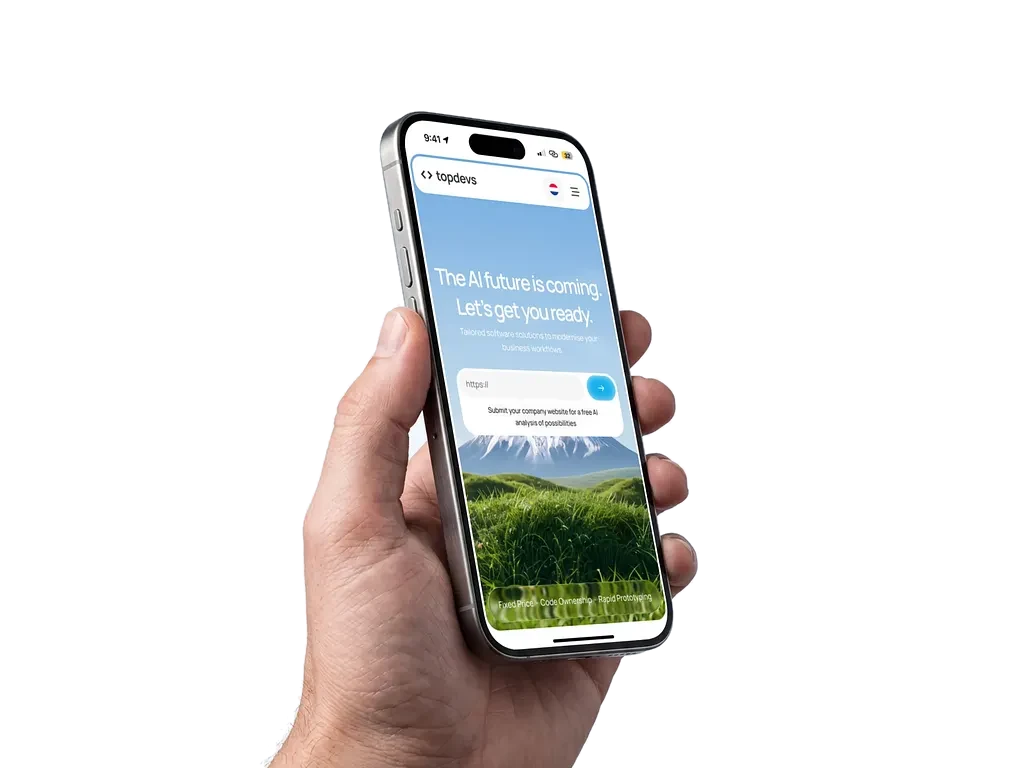
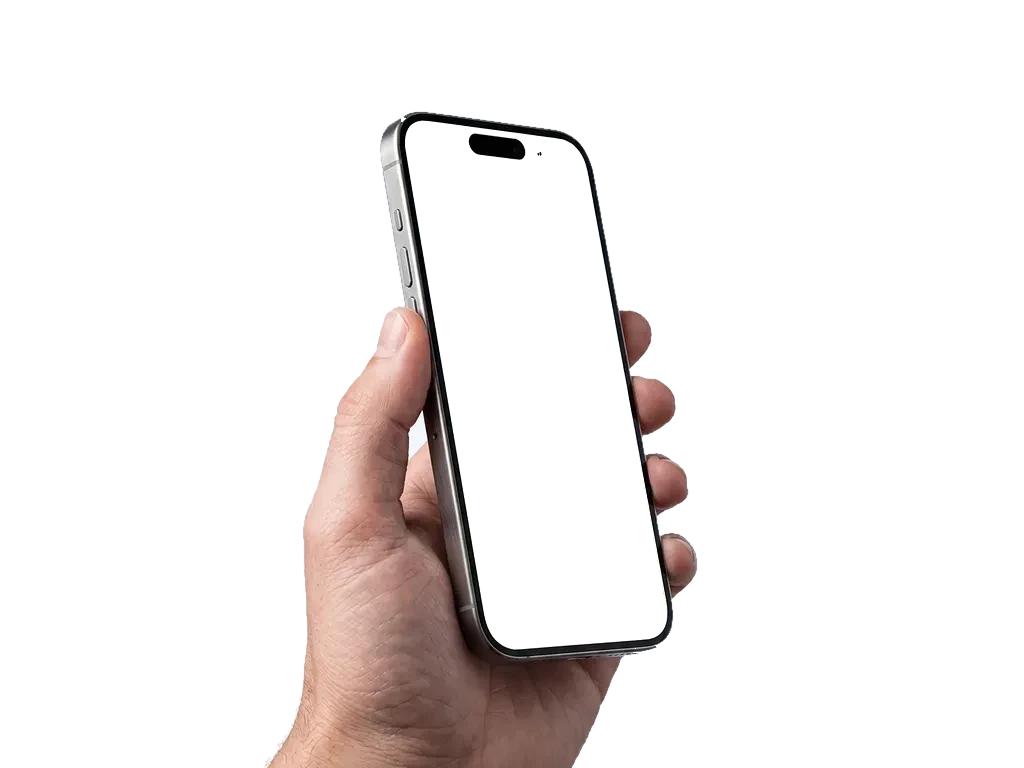
fix(hero): the screen sits inside the phone, not pasted on the photo
The live screen was drawn on top of the photo with approximate corners, so
its edges ran over the bezel in places and fell short in others, with its
own rounded corners and Dynamic Island that did not match the phone's.

- The screen glass is now cut out of the photo, and the live screen renders
  underneath it, clipped by a 1 KB mask of the glass shape grown 3 px. The
  phone's own bezel, rounded corners and Dynamic Island frame the content,
  the way a real mockup is composited.
- Corners are measured from the photo: lines fitted to the inner edge of
  the bezel on all four sides (ignoring the status-bar text and the side
  rim), intersected, pushed 4 px outward. The duplicate island is gone.
- The hole and the backdrop matte are pulled in by 1 px, so the bezel's
  soft edge stays solid and no light halo rings the fingers.
- On phone screens the two floating cards tuck inside, instead of the
  privacy badge running off the right edge.

Claude-Session: https://claude.ai/code/session_01GhrKGBFhCR7VbzNWPzgHkV

Changed region(s): [[0.4062, 0.1562, 0.6562, 0.8438]]

diff --git a/src/components/hero-device/hero-device.tsx b/src/components/hero-device/hero-device.tsx
@@ -36,7 +36,11 @@ import type { Dict } from "@/lib/i18n/index";
 
 type Copy = Dict["landing"]["heroDevice"];
 
+// The photo has its backdrop and its screen glass cut out; the live screen
+// sits underneath, framed by the phone's real bezel and Dynamic Island.
 const HAND = "/landing/hand-iphone.webp";
+// The glass's shape in the photo, grown 3 px so it hides under the bezel.
+const SCREEN_MASK = "url(/landing/hand-iphone-screen.png)";
 const GP = "/gallery-preview/";
 const GUEST = ["/explainer/assets/phone-cake.webp", "/explainer/assets/phone-nana.webp", GP + "p7.jpg"];
 const CAMERA_BG = GP + "p5.jpg";
@@ -381,15 +385,22 @@ export function HeroDevice({ copy, qrSvg }: { copy: Copy; qrSvg: string }) {
               }}
             >
               <div style={{ ...abs, left: 0, top: 0, width: 1024, height: 768, transformOrigin: "0 0", transform: `scale(${s}) translate(${-CROP.x}px, ${-CROP.y}px)` }}>
-                <img
-                  src={HAND}
-                  alt=""
-                  fetchPriority="high"
-                  decoding="async"
-                  style={{ ...abs, left: 0, top: 0, width: 1024, height: 768, display: "block", filter: "brightness(1.04) contrast(1.03)" }}
-                />
-
-                {/* ─── The live screen, warped onto the phone ─── */}
+                {/* ─── The live screen, warped onto the phone, under the photo ─── */}
+                <div
+                  style={{
+                    ...abs,
+                    left: 0,
+                    top: 0,
+                    width: 1024,
+                    height: 768,
+                    WebkitMaskImage: SCREEN_MASK,
+                    maskImage: SCREEN_MASK,
+                    WebkitMaskSize: "1024px 768px",
+                    maskSize: "1024px 768px",
+                    WebkitMaskRepeat: "no-repeat",
+                    maskRepeat: "no-repeat",
+                  }}
+                >
                 <div
                   style={{
                     ...abs,
@@ -399,7 +410,6 @@ export function HeroDevice({ copy, qrSvg }: { copy: Copy; qrSvg: string }) {
                     height: SCREEN.h,
                     transformOrigin: "0 0",
                     transform: SCREEN_MATRIX,
-                    borderRadius: 58,
                     overflow: "hidden",
                     background: "#0b0b0d",
                     isolation: "isolate",
@@ -1086,19 +1096,6 @@ export function HeroDevice({ copy, qrSvg }: { copy: Copy; qrSvg: string }) {
                     <span style={{ ...abs, left: 44, top: 18, fontSize: 17, fontWeight: 600 }}>9:41</span>
                     <StatusIcons battery="rgba(23,32,51,.5)" />
                   </div>
-                  <div style={{ ...abs, left: 133, top: 11, width: 127, height: 37, borderRadius: 20, background: "#000", boxShadow: "0 0 0 1px rgba(255,255,255,.04)" }}>
-                    <div
-                      style={{
-                        ...abs,
-                        right: 12,
-                        top: 11,
-                        width: 15,
-                        height: 15,
-                        borderRadius: "50%",
-                        background: "radial-gradient(circle at 35% 35%, #1d2433, #050608 60%)",
-                      }}
-                    />
-                  </div>
                   <div
                     style={{
                       ...abs,
@@ -1115,7 +1112,6 @@ export function HeroDevice({ copy, qrSvg }: { copy: Copy; qrSvg: string }) {
                   <div
                     style={{
                       ...fill,
-                      borderRadius: 58,
                       pointerEvents: "none",
                       background:
                         "linear-gradient(118deg, rgba(255,255,255,.20) 0%, rgba(255,255,255,.06) 26%, rgba(255,255,255,0) 42%, rgba(255,255,255,0) 78%, rgba(255,255,255,.05) 100%)",
@@ -1123,12 +1119,23 @@ export function HeroDevice({ copy, qrSvg }: { copy: Copy; qrSvg: string }) {
                     }}
                   />
                 </div>
+                </div>
+
+                {/* The phone and hand, on top: its bezel frames the screen. */}
+                <img
+                  src={HAND}
+                  alt=""
+                  fetchPriority="high"
+                  decoding="async"
+                  style={{ ...abs, left: 0, top: 0, width: 1024, height: 768, display: "block", filter: "brightness(1.04) contrast(1.03)" }}
+                />
+
               </div>
             </div>
           </div>
 
           {/* Floating cards */}
-          <div className="hd-float" style={{ ...abs, right: "-7%", top: "1%", zIndex: 3 }}>
+          <div className="hd-float hd-badge" style={{ ...abs, zIndex: 3 }}>
             <div
               style={{
                 display: "flex",
@@ -1162,7 +1169,7 @@ export function HeroDevice({ copy, qrSvg }: { copy: Copy; qrSvg: string }) {
             </div>
           </div>
 
-          <div className="hd-float hd-float-late" style={{ ...abs, left: "-7%", top: "52%", width: "clamp(86px, 26%, 116px)", zIndex: 3 }}>
+          <div className="hd-float hd-float-late hd-qr" style={{ ...abs, top: "52%", width: "clamp(86px, 26%, 116px)", zIndex: 3 }}>
             <div
               style={{
                 display: "flex",

diff --git a/src/lib/hero-device/homography.ts b/src/lib/hero-device/homography.ts
@@ -7,12 +7,17 @@ export type Point = [number, number];
 /** The live screen, in CSS px (an iPhone 15 Pro viewport). */
 export const SCREEN = { w: 393, h: 852 } as const;
 
-/** The screen's corners in the 1024×768 photo: top-left, top-right, bottom-right, bottom-left. */
+/**
+ * The screen's corners in the 1024×768 photo: top-left, top-right,
+ * bottom-right, bottom-left. Measured from the photo — lines fitted to the
+ * inner edge of the bezel on all four sides, intersected, then pushed 4 px
+ * outwards so the live screen tucks under the bezel instead of stopping short.
+ */
 export const CORNERS: Point[] = [
-  [401, 119],
-  [588, 133],
-  [680, 643],
-  [487, 650],
+  [398, 113],
+  [583, 138],
+  [677, 659],
+  [488, 647],
 ];
 
 /** The part of the photo the hero shows. */

diff --git a/src/app/globals.css b/src/app/globals.css
@@ -302,6 +302,24 @@ select {
 .hd-float-late {
   animation-delay: 1.8s;
 }
+/* The two floating cards hang off the device's edges where there is room;
+   on a phone screen they tuck inside it so nothing is cut off. */
+.hd-badge {
+  right: -7%;
+  top: 1%;
+}
+.hd-qr {
+  left: -7%;
+}
+@media (max-width: 640px) {
+  .hd-badge {
+    right: 0;
+    top: -3%;
+  }
+  .hd-qr {
+    left: -2%;
+  }
+}
 @keyframes hd-idle {
   0%, 100% { transform: translateY(0); }
   50% { transform: translateY(-5px); }

diff --git a/CLAUDE.md b/CLAUDE.md
@@ -539,7 +539,12 @@ Newest first — useful for picking back up.
   WebP (`public/landing/hand-iphone.webp`, 43 KB, matte keyed on the cool
   backdrop vs warm skin), and live HTML warped onto the screen with a
   homography (`src/lib/hero-device/homography.ts`, tested: corners land on the
-  photo within 0.5 px). A 12 s story on 28 cues: camera scans the real QR →
+  photo within 0.5 px). The screen glass is cut out of the photo too and the
+  live screen renders *under* it, clipped by `hand-iphone-screen.png` (the
+  glass shape grown 3 px), so the phone's real bezel, corners and Dynamic
+  Island frame it. Corners were measured by fitting lines to the bezel's inner
+  edge; if the photo is ever replaced, both images and `CORNERS` must be
+  regenerated together. A 12 s story on 28 cues: camera scans the real QR →
   guest sends 3 photos → notification → "hidden until you approve" sheet →
   2 approved move into the gallery (counter 244→246) → gallery scrolls, tab
   pill slides. Runs only when decoded, ≥15 % visible and the tab is visible;
